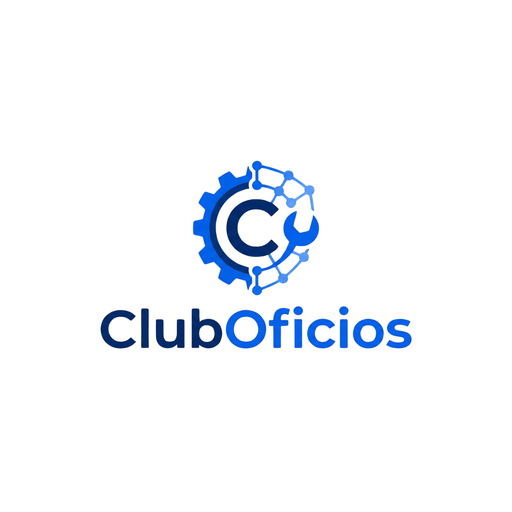
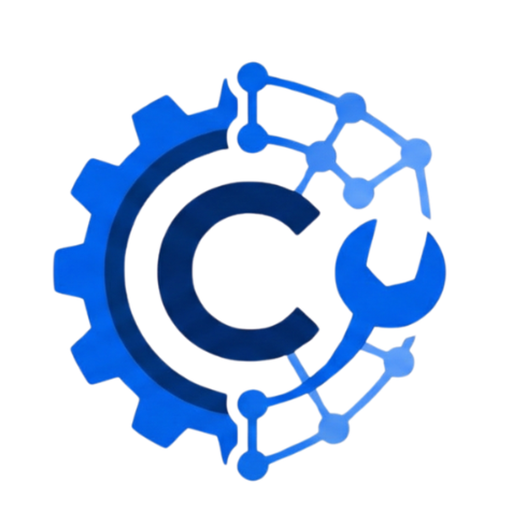
feat: iconos rediseñADOS
iconos rediseÑados

Changed region(s): [[0.0938, 0.125, 0.875, 0.9375]]

diff --git a/app/services/login.ts b/app/services/login.ts
@@ -3,7 +3,7 @@ import type { ILogin } from '~/interfaces/Ilogin'
 
 const loginApi = {
   login: async (email: string, password: string) => {
-    const response = await axiosInstance.post<ILogin>('/auth/login', {
+    const response = await axiosInstance.post<ILogin>('/login', {
       email,
       password
     })

diff --git a/pwa-assets.config.ts b/pwa-assets.config.ts
@@ -33,5 +33,5 @@ export default defineConfig({
       }
     }
   },
-  images: ['public/images/club_oficios_logo_blanco.png']
+  images: ['public/images/result_club_oficios_logo_blanco.png']
 })
